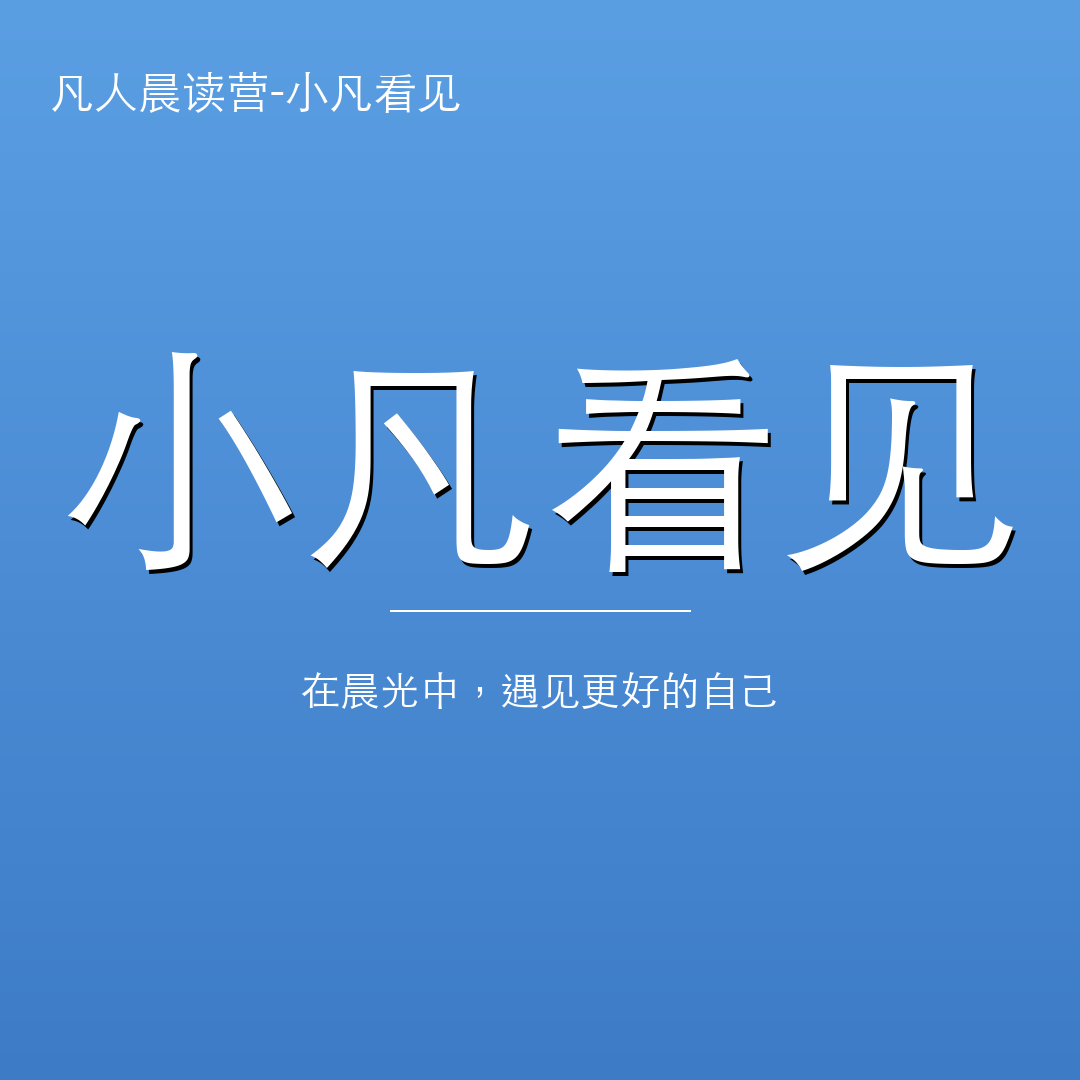
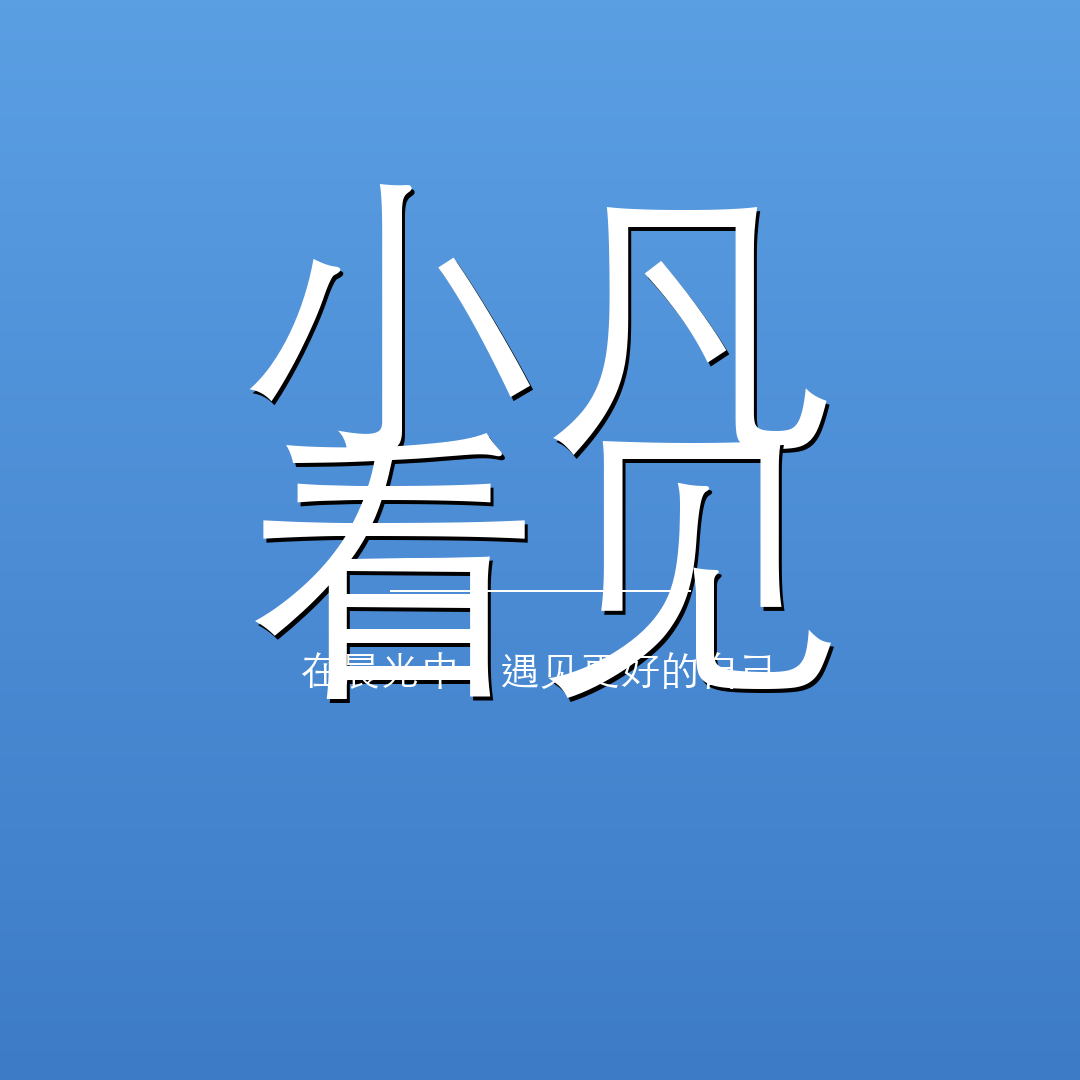
refactor: 优化分享图片布局 - 两行大字 + 移除标题
设计调整:
- 移除左上角标题：去掉'凡人晨读营-小凡看见'
- 主标题改为两行：
  - 第一行：'小凡'
  - 第二行：'看见'
- 字体大小：240px → 300px（增加25%）
- 字体粗度：使用系统字体确保粗体效果
- 行距调整：两行之间间距优化

现在布局更简洁有力，视觉冲击更强 ✨

🤖 Generated with Claude Code

Changed region(s): [[0.1222, 0.1528, 0.9472, 0.6722], [0.0611, 0.0611, 0.4278, 0.1222], [0.0611, 0.3667, 0.1222, 0.4889]]

diff --git a/generate_share_image.py b/generate_share_image.py
@@ -51,29 +51,37 @@ def generate_share_image():
     font_path = find_font()
 
     if font_path and os.path.exists(font_path):
-        font_title = ImageFont.truetype(font_path, 44)
-        font_main = ImageFont.truetype(font_path, 240)
+        # 尝试加载粗体字体
+        try:
+            font_main = ImageFont.truetype(font_path, 300)
+        except:
+            font_main = ImageFont.truetype(font_path, 300)
         font_subtitle = ImageFont.truetype(font_path, 40)
     else:
         print("⚠  使用默认字体")
-        font_title = ImageFont.load_default()
         font_main = ImageFont.load_default()
         font_subtitle = ImageFont.load_default()
 
-    # ====== 左上角：标题 ======
-    title_text = "凡人晨读营-小凡看见"
-    draw.text((50, 70), title_text, fill=(255, 255, 255), font=font_title)
-
-    # ====== 中央：主标题"小凡看见" ======
-    main_text = "小凡看见"
+    # ====== 中央：主标题"小凡看见" - 分两行 ======
     center_x = width / 2
-    center_y = height / 2 - 80
+    center_y = height / 2 - 100
 
-    # 绘制字体阴影
-    draw.text((center_x + 3, center_y + 4), main_text,
+    # 第一行：小凡
+    text1 = "小凡"
+    # 阴影
+    draw.text((center_x + 3, center_y - 120 + 4), text1,
               fill=(0, 0, 0, 100), font=font_main, anchor="mm")
-    # 绘制主文字
-    draw.text((center_x, center_y), main_text,
+    # 主文字
+    draw.text((center_x, center_y - 120), text1,
+              fill=(255, 255, 255), font=font_main, anchor="mm")
+
+    # 第二行：看见
+    text2 = "看见"
+    # 阴影
+    draw.text((center_x + 3, center_y + 120 + 4), text2,
+              fill=(0, 0, 0, 100), font=font_main, anchor="mm")
+    # 主文字
+    draw.text((center_x, center_y + 120), text2,
               fill=(255, 255, 255), font=font_main, anchor="mm")
 
     # ====== 下方：装饰线 ======
